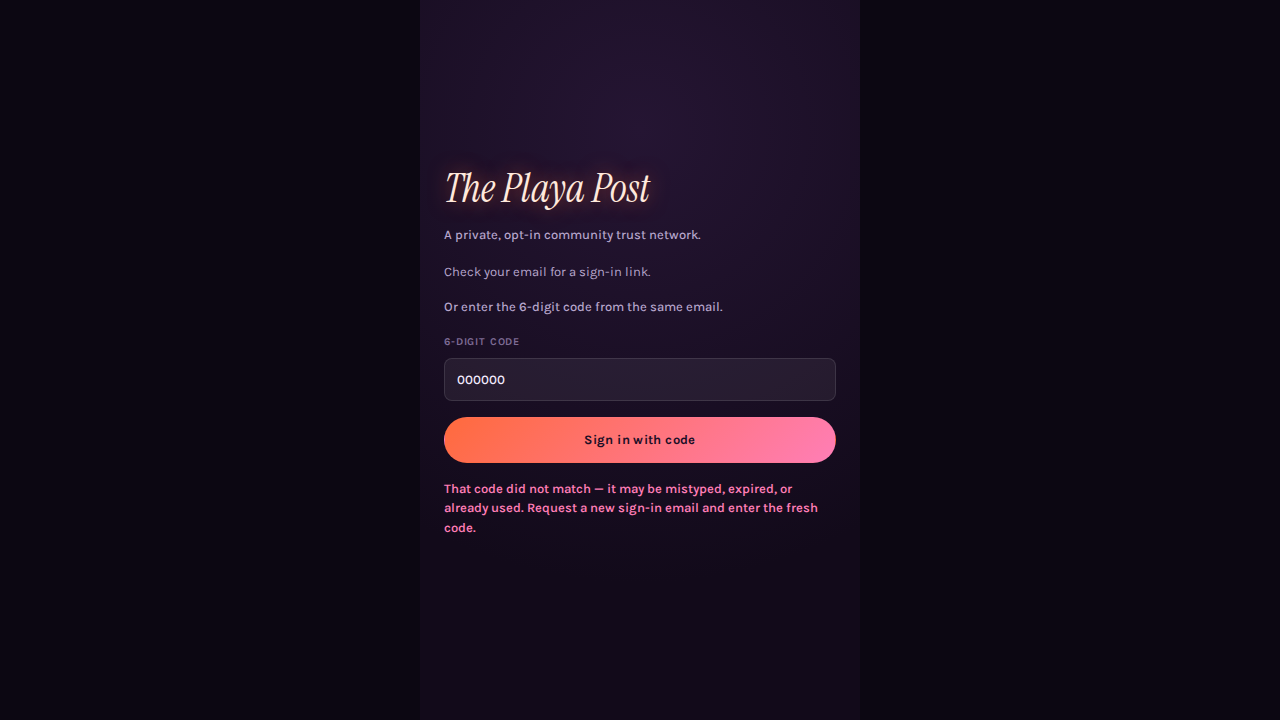
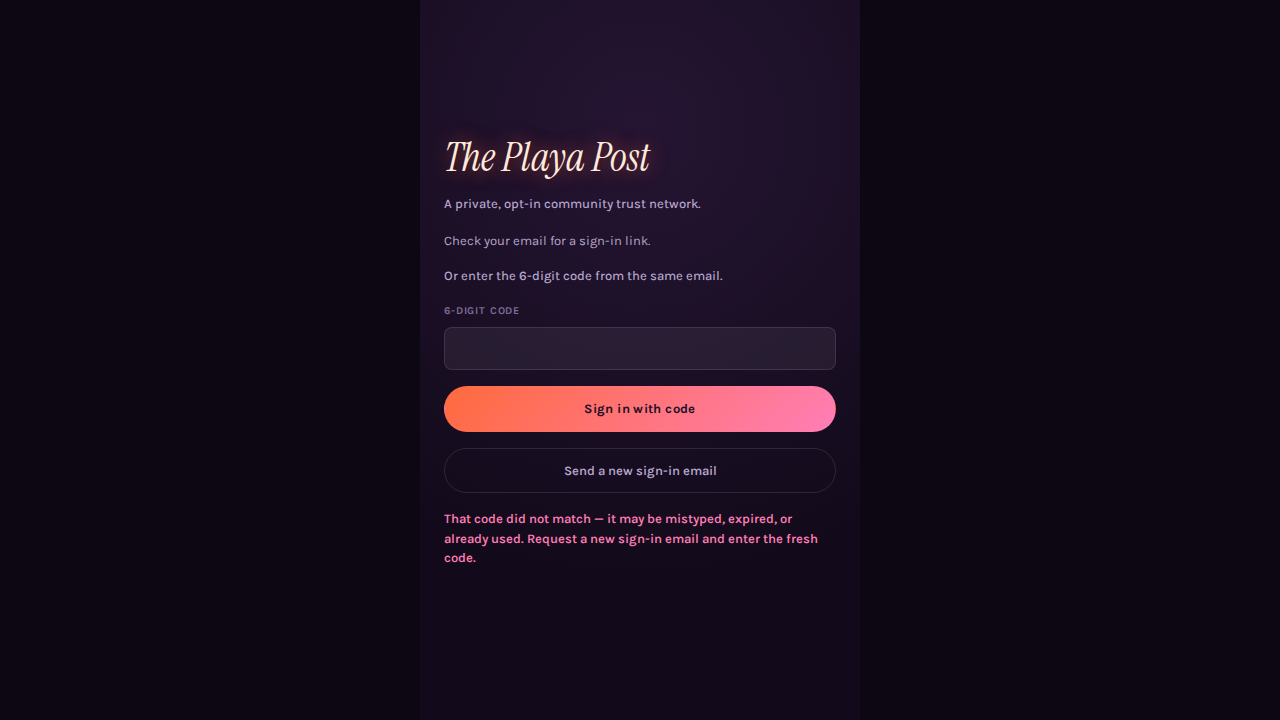
fix(web): give the rejected-code screen its promised way back to the email form
Review follow-ups on #187. The rejection copy tells the user to "Request a
new sign-in email," but once `sent` flipped nothing on the screen could do
that — an installed PWA has no address bar to reload from. A ghost-styled
"Send a new sign-in email" button now resets the flow, the rejected code is
cleared from the field, and the e2e rejection case clicks its way back to
the email form to prove it.

The rate-limit copy is now channel-neutral ("Too many sign-in attempts…"),
since describeSignInFailure serves both the link-request and code-verify
paths; report-abuse-sheet.spec.ts's exact-string assertion follows.

The deploy-blocking manual step — mirror supabase/templates/magic-link.html
into the production dashboard's magic-link template — moves out of a TOML
comment and into implementation-plan.md as M3.2a. ac-index.md gains the
#179 row and repo-map.md learns supabase/templates/.

Changed region(s): [[0.3438, 0.5194, 0.6562, 0.7944], [0.3438, 0.1833, 0.5625, 0.4889]]

diff --git a/apps/web/src/app/routes/sign-in.tsx b/apps/web/src/app/routes/sign-in.tsx
@@ -52,6 +52,11 @@ export function SignInRoute(): JSX.Element {
       // to `'signed-in'` — the redirect above then takes over on the next render.
     } catch (error) {
       setFailure(describeSignInFailure(error));
+      // A rejected code is never worth retrying as typed — `isCodeRejected` in
+      // `sign-in-failure.ts` collapses wrong/expired/already-used into one signal, so
+      // the one honest move is clearing the field rather than leaving a digit that
+      // looks correct sitting in a box that will refuse it again.
+      setCode('');
     }
   }
 
@@ -98,6 +103,25 @@ export function SignInRoute(): JSX.Element {
                   Sign in with code
                 </button>
               </form>
+
+              {/* The rejection copy in `sign-in-failure.ts` tells a rejected-code
+                  reader to "Request a new sign-in email" — this is that offer. Ghost
+                  styling (the bare `.button`, same as the dismiss action in
+                  `bulletin-detail-sheet.tsx`) keeps it visibly secondary to "Sign in
+                  with code" above, and it doubles as the only way back to the email
+                  form once `sent` is `true`, rejection or not. */}
+              <button
+                className="button"
+                type="button"
+                data-testid="sign-in-request-new-code-button"
+                onClick={() => {
+                  setSent(false);
+                  setCode('');
+                  setFailure(null);
+                }}
+              >
+                Send a new sign-in email
+              </button>
             </>
           ) : (
             <form

diff --git a/apps/web/src/app/auth/sign-in-failure.ts b/apps/web/src/app/auth/sign-in-failure.ts
@@ -90,7 +90,7 @@ function isCodeRejected(error: unknown): boolean {
  * - an unconfigured build is not theirs to fix, and saying "check the address" would
  *   send them to re-read an address that was never the problem;
  * - a rate limit clears on its own, and re-checking the address is the one thing that
- *   *cannot* help — the previous link is already in their inbox;
+ *   *cannot* help — the last email already sent, link and code alike, is still valid;
  * - a rejected code (wrong, expired, or already used — `isCodeRejected` above) cannot
  *   be told apart from the wire signal alone, so the message is honest about that and
  *   names the one remedy that covers all three: request a new code;
@@ -108,7 +108,7 @@ export function describeSignInFailure(error: unknown): string {
   }
 
   if (isRateLimited(error)) {
-    return 'Too many sign-in links have been requested for that address. Wait a few minutes and try again — the last link we sent is still valid.';
+    return 'Too many sign-in attempts for that address. Wait a few minutes and try again — the last email we sent is still valid.';
   }
 
   if (isCodeRejected(error)) {

diff --git a/tests/e2e/report-abuse-sheet.spec.ts b/tests/e2e/report-abuse-sheet.spec.ts
@@ -458,7 +458,7 @@ test.describe('a rate-limited sign-in tells the user to wait, in both themes', (
       // that the advice it replaced is gone.
       const failure = page.getByRole('alert');
       await expect(failure).toHaveText(
-        'Too many sign-in links have been requested for that address. Wait a few minutes and try again — the last link we sent is still valid.',
+        'Too many sign-in attempts for that address. Wait a few minutes and try again — the last email we sent is still valid.',
       );
       await expect(failure).not.toContainText('Check the address');
 

diff --git a/tests/e2e/sign-in-code.spec.ts b/tests/e2e/sign-in-code.spec.ts
@@ -140,5 +140,10 @@ test.describe('signing in with the emailed code', () => {
     await expect(page.getByTestId('sign-in-code-input')).toBeVisible();
     await expect(page).toHaveURL(/\/signin$/);
     await capture(page, 'sign-in-code-rejected');
+
+    // The rejection copy says "Request a new sign-in email" — that offer must
+    // actually be there and must actually work.
+    await page.getByTestId('sign-in-request-new-code-button').click();
+    await expect(page.getByLabel('Email')).toBeVisible();
   });
 });

diff --git a/docs/engineering/ac-index.md b/docs/engineering/ac-index.md
@@ -22,3 +22,4 @@ it, and the file where that proof lives. CI fails if an AC in the plan has no ro
 | Pinned notes reach the bell ([#149](https://github.com/drewdrewthis/playa-post/issues/149)) | `test:integration` | `modules/notifications/tests/integration/notifications-list.integration.test.ts` | `NotePinned` gains its consumer (closes [#112](https://github.com/drewdrewthis/playa-post/issues/112)'s open event): a delivered note lists as a `kind: 'note'` notification carrying `noteId` only — no body, no author; an undelivered event lists nothing; the read re-checks `app.visible_notes` so a note that leaves the authorized set leaves the bell, and a payload that names the wrong recipient discloses nothing; dismissal marks it read; redelivery still lists one. On by default because no preference exists — M5 owns preferences |
 | Pinned notes — the drainer is actually wired to the consumer ([#149](https://github.com/drewdrewthis/playa-post/issues/149)) | `test:integration` | `apps/server/src/composition/container-notification-wiring.integration.test.ts` | The real `buildAppContainer` drains a `NotePinned` row and its `DeliverNotePinnedHandler` receipt lands. The only proof of registration: every module suite wires its own module, so an unregistered consumer is a feature that silently does not exist |
 | Pinned notes — the bell reads both kinds ([#149](https://github.com/drewdrewthis/playa-post/issues/149)) | `test:unit` | `apps/server/src/modules/notifications/tests/unit/list-notifications-unread.unit.test.ts`, `apps/web/src/app/notifications/notifications-view.unit.test.ts` | Notes are singletons — never windowed, however close together they were pinned — and share one newest-first list with grouped bulletins; `notificationTitle` branches on `kind` and names nobody ("Someone pinned a note to your board"), because the contract carries no author |
+| Sign-in email carries a one-time code the installed PWA can verify itself ([#179](https://github.com/drewdrewthis/playa-post/issues/179)) | `test:unit` | `apps/web/src/app/auth/supabase-auth-client.unit.test.ts`, `apps/web/src/app/auth/sign-in-failure.unit.test.ts`, `tests/e2e/sign-in-code.spec.ts` | AC3 (code completes sign-in inside the installed PWA) and AC4/AC5 (rejected code, with the "send a new code" recovery path) proven end to end in `tests/e2e/sign-in-code.spec.ts`; AC4/AC5/AC6 collapse into one rejection branch — `describeSignInFailure`'s `isCodeRejected` case — per decision D10, because GoTrue cannot tell a wrong code from an expired one from a reused one. `test:e2e` is CI-advisory (`docs/engineering/l5-plan.md` D2), so `test:unit` is the gating proof |

diff --git a/docs/engineering/implementation-plan.md b/docs/engineering/implementation-plan.md
@@ -432,8 +432,13 @@ throwaway code.
 
 M3.1 launch the blueprint (`render blueprint launch`) and record the service ID and public URL ·
 M3.2 set the service's secret env vars in the Render dashboard (`sync: false` keys only; names in
-`docs/engineering/secrets.md`) · M3.3 point the service at the Supabase project through the `app_rw`
-role and prove the connection identity (S3a) · **M3.4 `/healthz` liveness is what M3 deploys and what
+`docs/engineering/secrets.md`) · M3.2a mirror `supabase/templates/magic-link.html` into the production
+Supabase project's dashboard-managed magic-link email template (Authentication → Email Templates), so
+the deployed email carries `{{ .Token }}` the same as local dev — `supabase/config.toml`'s
+`content_path` pin only governs local development (issue #179), so this is the one step that makes the
+installed-PWA sign-in path work outside a developer's machine · M3.3 point the service at the Supabase
+project through the `app_rw` role and prove the connection identity (S3a) · **M3.4 `/healthz` liveness
+is what M3 deploys and what
 Render polls — unconditionally.** It is already implemented and `render.yaml` hardcodes it; the
 SHA-carrying `/health` is **M4.3's separate endpoint**, added *alongside* `/healthz` and never
 replacing it · M3.5 measure the free-plan cold start after an idle spin-down and record it ·

diff --git a/docs/engineering/repo-map.md b/docs/engineering/repo-map.md
@@ -133,7 +133,7 @@ apps/server/     The modular monolith.
 packages/        contracts · database · observability · configuration · testing. contracts/src/*.ts
                  is the declared wire surface (ADR-0014) — the only legal import from apps/web
                  into the server side.
-supabase/        migrations/ · sql/ · seed/ · tests/.
+supabase/        migrations/ · sql/ · seed/ · templates/ · tests/.
 scripts/         Repo tooling.
 tests/           fitness/ (executable architecture rules) · security/ (ADR-0002 bypass suite) ·
                  integration/ (root-level cross-module integration tests) · e2e/ (Playwright
